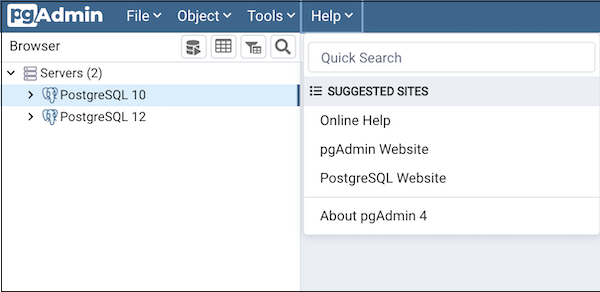
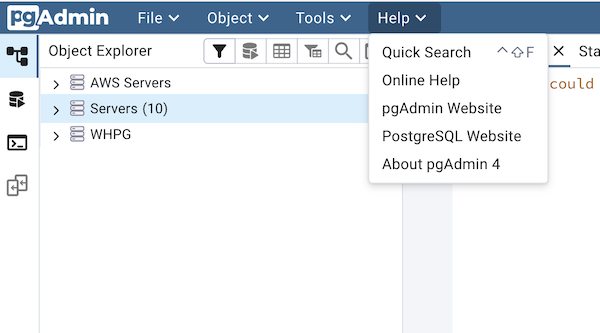
Update menu bar documentation. #9567

diff --git a/docs/en_US/menu_bar.rst b/docs/en_US/menu_bar.rst
@@ -5,8 +5,10 @@
 *****************
 
 The pgAdmin menu bar provides drop-down menus for access to options, commands,
-and utilities. The menu bar displays the following selections: *File*, *Object*,
-Tools*, and *Help*. Selections may be grayed out which indicates they are
+and utilities. Its layout adapts based on your deployment: in Web mode,
+you will see *File*, *Object*, *Tools*, and *Help* menus. In Desktop mode,
+the *pgAdmin4* application menu replaces the standard *File* menu.
+Selections may be grayed out which indicates they are
 disabled for the object currently selected in the *pgAdmin* tree control.
 
 The File Menu
@@ -16,7 +18,7 @@ The File Menu
     :alt: pgAdmin file menu bar
     :align: center
 
-Use the *File* menu to access the following options:
+Use the *File* menu available in web mode to access the following options:
 
 +-------------------------+---------------------------------------------------------------------------------------------------------+
 | Option                  | Action                                                                                                  |
@@ -25,8 +27,30 @@ Use the *File* menu to access the following options:
 +-------------------------+---------------------------------------------------------------------------------------------------------+
 | *Reset Layout*          | If you have modified the workspace, click to restore the default layout.                                |
 +-------------------------+---------------------------------------------------------------------------------------------------------+
-| *Runtime*               | Click to open a submenu to Configure, View Log and Zoom settings. Only visible when pgAdmin4 runs in    |
-|                         | desktop mode. To know more about runtime menu :ref:`click here <desktop_deployment>`                    |
+
+
+The pgAdmin4 Menu
+*****************
+
+.. image:: /images/pgadmin4_menu.png
+    :alt: pgAdmin pgadmin4 menu bar
+    :align: center
+
+Use the *pgAdmin4* menu available in desktop mode to access the following options:
+
++-------------------------+---------------------------------------------------------------------------------------------------------+
+| Option                  | Action                                                                                                  |
++=========================+=========================================================================================================+
+| *About pgAdmin 4*       | Provide pgadmin4 configuration information like version, mode etc.                                      |
++-------------------------+---------------------------------------------------------------------------------------------------------+
+| *Preferences/settings*  | Click to open the :ref:`Preferences <preferences>` dialog to customize your pgAdmin settings.           |
++-------------------------+---------------------------------------------------------------------------------------------------------+
+| *Reset Layout*          | If you have modified the workspace, click to restore the default layout.                                |
++-------------------------+---------------------------------------------------------------------------------------------------------+
+| *View Logs*             | This will show current pgadmin4 logs.                                                                   |
++-------------------------+---------------------------------------------------------------------------------------------------------+
+| *Configure runtime*     | Click to open a  window that allows to configure application port, connection timeout to launch the     |
+|                         | application. To know more about runtime menu :ref:`click here <desktop_deployment>`                     |
 +-------------------------+---------------------------------------------------------------------------------------------------------+
 
 The Object Menu
